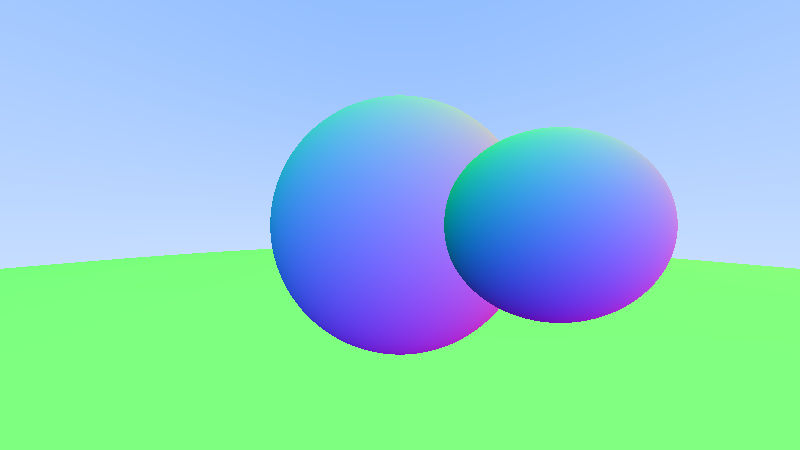
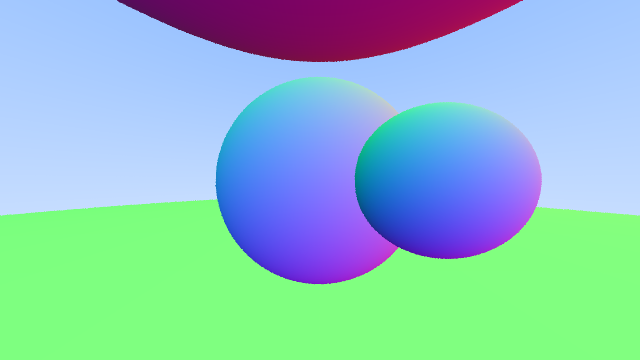
added camera and antialyasing

diff --git a/source/main.cpp b/source/main.cpp
@@ -7,18 +7,81 @@
 #include "sphere.h"
 //include yaml
 #include "yaml-cpp/yaml.h"
+#include "camera.h"
 
-
-
-color ray_color(const ray& r, const hittable& world) {
-    hit_record rec = {};
-    if (world.hit(r, 0, infinity, rec)) {
-        return 0.5f * (rec.normal + color(1,1,1));
+class RayTracer {
+public:
+    RayTracer(int width, float aspect_ratio)
+        : width(width){
+        height = static_cast<int>((float)width / aspect_ratio);
     }
-    glm::vec3 unit_direction = glm::normalize(r.direction());
-    auto t = 0.5*(unit_direction.y + 1.0);
-    return (float)(1.0-t)*color(1.0, 1.0, 1.0) + (float)t*color(0.5, 0.7, 1.0);
-}
+
+    void render_old(const hittable_list& world){
+        std::fstream file_out("image.ppm", std::ios::out);
+
+        file_out << "P3\n" << width << ' ' << height << "\n255\n";
+
+        for (int j = height-1; j >= 0; --j) {
+            std::cerr << "\rScanlines remaining: " << j << ' ' << std::flush;
+            for (int i = 0; i < width; ++i) {
+                auto u = double(i) / (width-1);
+                auto v = double(j) / (height-1);
+                ray r(origin, lower_left_corner + (float)u*horizontal + (float)v*vertical);
+                color pixel_color = ray_color(r, world);
+                write_color_old(file_out, pixel_color);
+            }
+        }
+
+    }
+    void render(const hittable_list& world){
+        std::fstream file_out("image.ppm", std::ios::out);
+
+        camera cam;
+
+        file_out << "P3\n" << width << ' ' << height << "\n255\n";
+
+        for (int j = height-1; j >= 0; --j) {
+            std::cerr << "\rScanlines remaining: " << j << ' ' << std::flush;
+            for (int i = 0; i < width; ++i) {
+                color pixel_color(0, 0, 0);
+                for (int s = 0; s < 5; ++s) {
+                    auto u = (i + random_double()) / (width-1);
+                    auto v = (j + random_double()) / (height-1);
+                    ray r = cam.get_ray(u, v);
+                    pixel_color += ray_color(r, world);
+                }
+                write_color(file_out, pixel_color, 5);
+            }
+        }
+
+    }
+
+    void calculate_camera_and_viewport(float viewport_width,float viewport_height, float focal_length, point3 org){
+        this->origin = org;
+        horizontal = glm::vec3(viewport_width, 0, 0);
+        vertical = glm::vec3(0, viewport_height, 0);
+        lower_left_corner = org - horizontal / 2.0f - vertical / 2.0f - glm::vec3(0, 0, focal_length);
+    }
+
+    color ray_color(const ray& r, const hittable& world) { // NOLINT(readability-convert-member-functions-to-static)
+        hit_record rec = {};
+        if (world.hit(r, 0, infinity, rec)) {
+            return 0.5f * (rec.normal + color(1,1,1));
+        }
+        glm::vec3 unit_direction = glm::normalize(r.direction());
+        auto t = 0.5*(unit_direction.y + 1.0);
+        return (float)(1.0-t)*color(1.0, 1.0, 1.0) + (float)t*color(0.5, 0.7, 1.0);
+    }
+
+private:
+    int width;
+    int height;
+    //float aspect_ratio;
+    point3 origin = point3(0, 0, 0);
+    glm::vec3 horizontal = glm::vec3(4, 0, 0);
+    glm::vec3 vertical = glm::vec3(0, 2, 0);
+    point3 lower_left_corner = point3(-2, -1, -1);
+};
 
 
 int main() {
@@ -27,21 +90,18 @@ int main() {
     YAML::Node input = YAML::LoadFile("input.yaml");
     YAML::Node config = YAML::LoadFile("config.yaml");
 
+    const float aspect_ratio = config["ratio"][0].as<float>() / config["ratio"][1].as<float>();
+    const int image_width =  config["image_width"].as<int>();
+    const int samples_per_pixel = 100;
 
-
-
-    const auto aspect_ratio = config["ratio"][0].as<float>() / config["ratio"][1].as<float>();
-    const int image_width =  config["image_width"].as<float>();
-    const int image_height = static_cast<int>(image_width / aspect_ratio);
+    RayTracer tracer(image_width, aspect_ratio);
 
     // World
     hittable_list world;
 
-
     //get sphere list
     auto spheres = input["elements"];
     for(auto item : spheres) {
-
 
         //parse 3d point
         auto point = item["position"];
@@ -49,47 +109,24 @@ int main() {
         auto position_glm = glm::vec3(position[0], position[1], position[2]);
 
         //parse radius
-        float radius = item["radius"].as<float>();
-
-
-        //std::cout << position_glm.x << " " << position_glm.y << " " << position_glm.z << std::endl;
-
+        auto radius = item["radius"].as<float>();
         world.add(make_shared<sphere>(position_glm, radius));
-
-
     }
 
-    // Camera
+    //camera cam;
 
+    // Camera and viewport
     auto viewport_height = config["camera"]["viewport_height"].as<float>();
     auto viewport_width = aspect_ratio * viewport_height;
     auto focal_length = config["camera"]["focal_length"].as<float>();
-
     auto origin = point3(
             config["camera"]["origin"][0].as<float>(),
             config["camera"]["origin"][1].as<float>(),
             config["camera"]["origin"][2].as<float>()
-            );
-    auto horizontal = glm::vec3(viewport_width, 0, 0);
-    auto vertical = glm::vec3(0, viewport_height, 0);
-    auto lower_left_corner = origin - horizontal/2.0f - vertical/2.0f - glm::vec3(0, 0, focal_length);
+    );
+
+    tracer.calculate_camera_and_viewport(viewport_width, viewport_height, focal_length, origin);
 
     // Render
-
-    std::fstream file_out("image.ppm", std::ios::out);
-
-    file_out<< "P3\n" << image_width << ' ' << image_height << "\n255\n";
-
-    for (int j = image_height-1; j >= 0; --j) {
-        std::cerr << "\rScanlines remaining: " << j << ' ' << std::flush;
-        for (int i = 0; i < image_width; ++i) {
-            auto u = double(i) / (image_width-1);
-            auto v = double(j) / (image_height-1);
-            ray r(origin, lower_left_corner + (float)u*horizontal + (float)v*vertical);
-            color pixel_color = ray_color(r, world);
-            write_color(file_out, pixel_color);
-        }
-    }
-
-    std::cerr << "\nDone.\n";
+    tracer.render(world);
 }

diff --git a/source/rtweekend.h b/source/rtweekend.h
@@ -10,6 +10,10 @@
 
 // Common Headers
 #include <iostream>
+
+#include <cstdlib>
+#include <random>
+
 #include <glm/glm.hpp>
 #include <glm/gtc/matrix_transform.hpp>
 // Type aliases for vec3
@@ -33,6 +37,37 @@ const double pi = 3.1415926535897932385;
 inline double degrees_to_radians(double degrees) {
     return degrees * pi / 180.0;
 }
+
+
+
+/// Returns a random double in [0, 1).
+/// \return a random double in [0, 1)
+inline double random_double() {
+    // Returns a random real in [0,1).
+    return rand() / (RAND_MAX + 1.0);
+}
+/*
+inline double random_double() {
+    static std::uniform_real_distribution<double> distribution(0.0, 1.0);
+    static std::mt19937 generator;
+    return distribution(generator);
+}*/
+
+/// Returns a random double in [a, b).
+/// \param a
+/// \param b
+/// \return
+inline double random_double(double min, double max) {
+    // Returns a random real in [min,max).
+    return min + (max-min)*random_double();
+}
+
+inline double clamp(double x, double min, double max) {
+    if (x < min) return min;
+    if (x > max) return max;
+    return x;
+}
+
 
 
 #endif //PROJECT_RTWEEKEND_H

diff --git a/source/color.h b/source/color.h
@@ -9,10 +9,29 @@
 #include <iostream>
 using color = glm::vec3;
 
-void write_color(std::ostream &out, color pixel_color) {
+void write_color_old(std::ostream &out, color pixel_color) {
     // Write the translated [0,255] value of each color component.
     out << static_cast<int>(255.999 * pixel_color.x) << ' '
         << static_cast<int>(255.999 * pixel_color.y) << ' '
         << static_cast<int>(255.999 * pixel_color.z) << '\n';
 }
+
+void write_color(std::ostream &out, color pixel_color, int samples_per_pixel) {
+    auto r = pixel_color.x;
+    auto g = pixel_color.y;
+    auto b = pixel_color.z;
+
+    // Divide the color by the number of samples.
+    float scale = 1.0f / (float)samples_per_pixel;
+    r *= scale;
+    g *= scale;
+    b *= scale;
+
+    // Write the translated [0,255] value of each color component.
+    out << static_cast<int>(256 * clamp(r, 0.0, 0.999)) << ' '
+        << static_cast<int>(256 * clamp(g, 0.0, 0.999)) << ' '
+        << static_cast<int>(256 * clamp(b, 0.0, 0.999)) << '\n';
+}
+
+
 #endif //PROJECT_COLOR_H

diff --git a/source/camera.cpp b/source/camera.cpp
@@ -1,0 +1,23 @@
+//
+// Created by mateo on 20.8.22.
+//
+
+#include "camera.h"
+
+camera::camera() {
+    auto aspect_ratio = 16.0 / 9.0;
+    auto viewport_height = 2.0;
+    auto viewport_width = aspect_ratio * viewport_height;
+    auto focal_length = 1.0;
+
+    origin = point3(0, 0, 0);
+    horizontal = glm::vec3(viewport_width, 0.0, 0.0);
+    vertical = glm::vec3(0.0, viewport_height, 0.0);
+    lower_left_corner = origin - horizontal/2.0f - vertical/2.0f - glm::vec3(0, 0, focal_length);
+
+}
+
+ray camera::get_ray(float u, float v) const {
+    return {origin, lower_left_corner + u * horizontal + v*vertical - origin};
+
+}

diff --git a/source/camera.h b/source/camera.h
@@ -1,0 +1,24 @@
+//
+// Created by mateo on 20.8.22.
+//
+
+#ifndef PROJECT_CAMERA_H
+#define PROJECT_CAMERA_H
+
+#include "rtweekend.h"
+#include "ray.h"
+
+class camera {
+public:
+    camera();
+    ray get_ray(float u, float v) const;
+
+private:
+    point3 origin = point3(0, 0, 0);
+    point3 lower_left_corner = point3(0, 0, 0);
+    glm::vec3 horizontal = glm::vec3(0, 0, 0);
+    glm::vec3 vertical  = glm::vec3(0, 0, 0);
+};
+
+
+#endif //PROJECT_CAMERA_H
